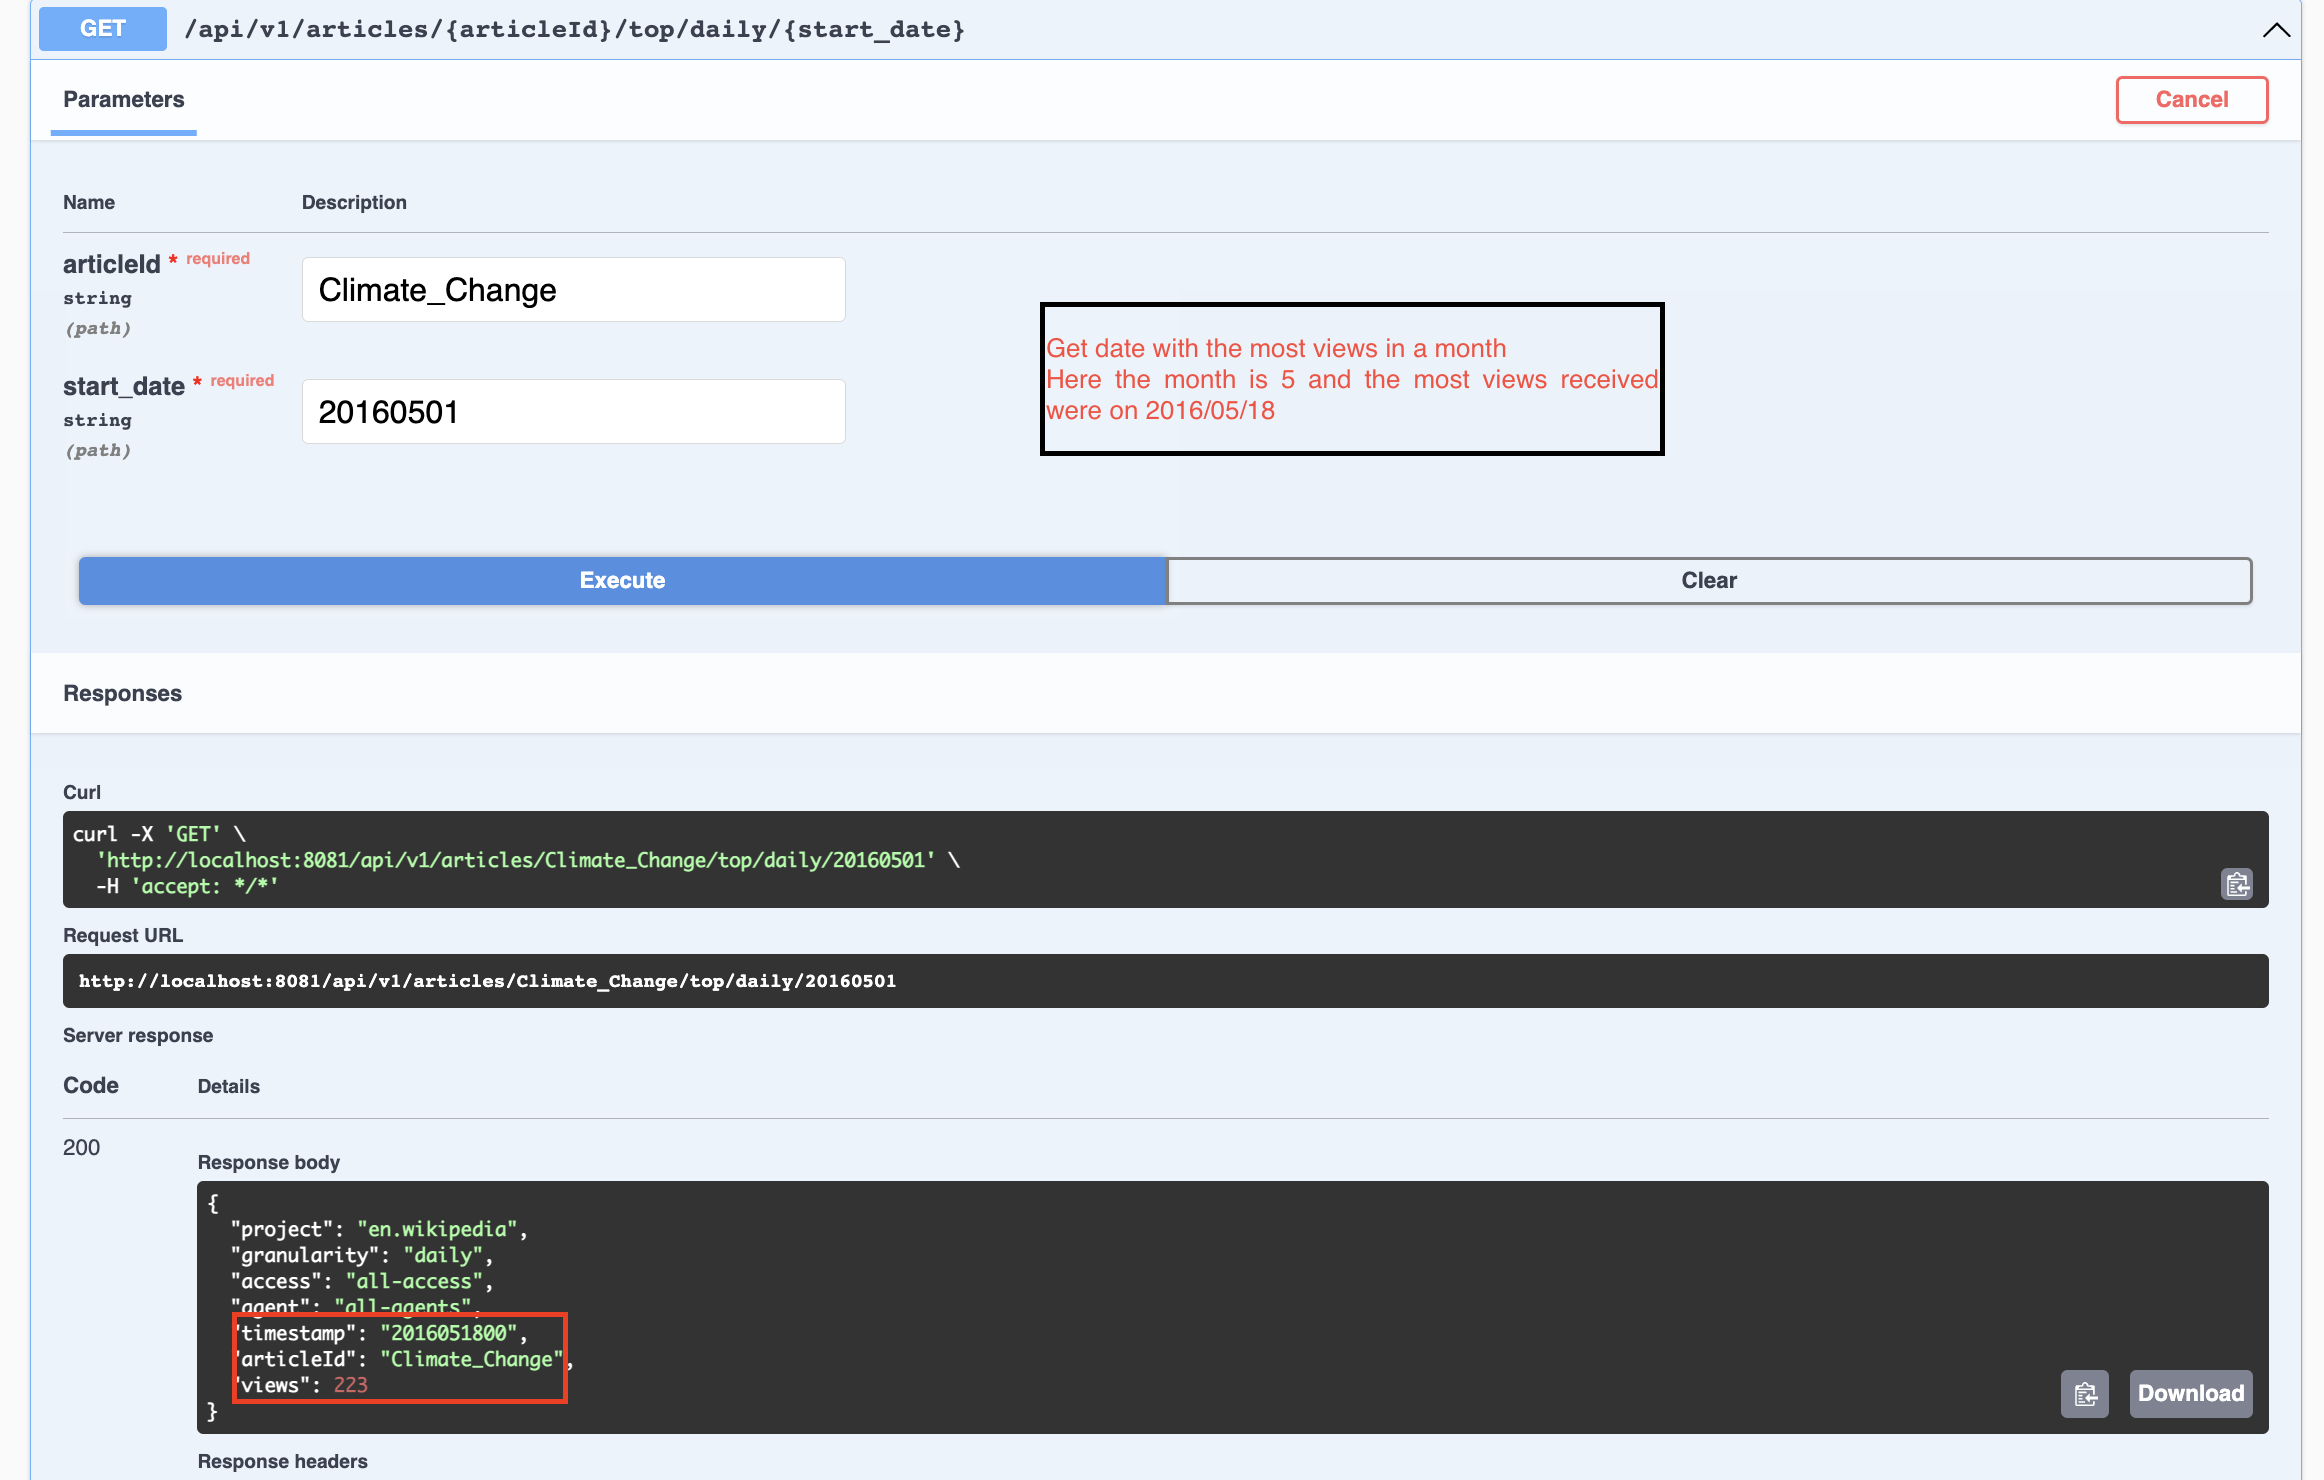
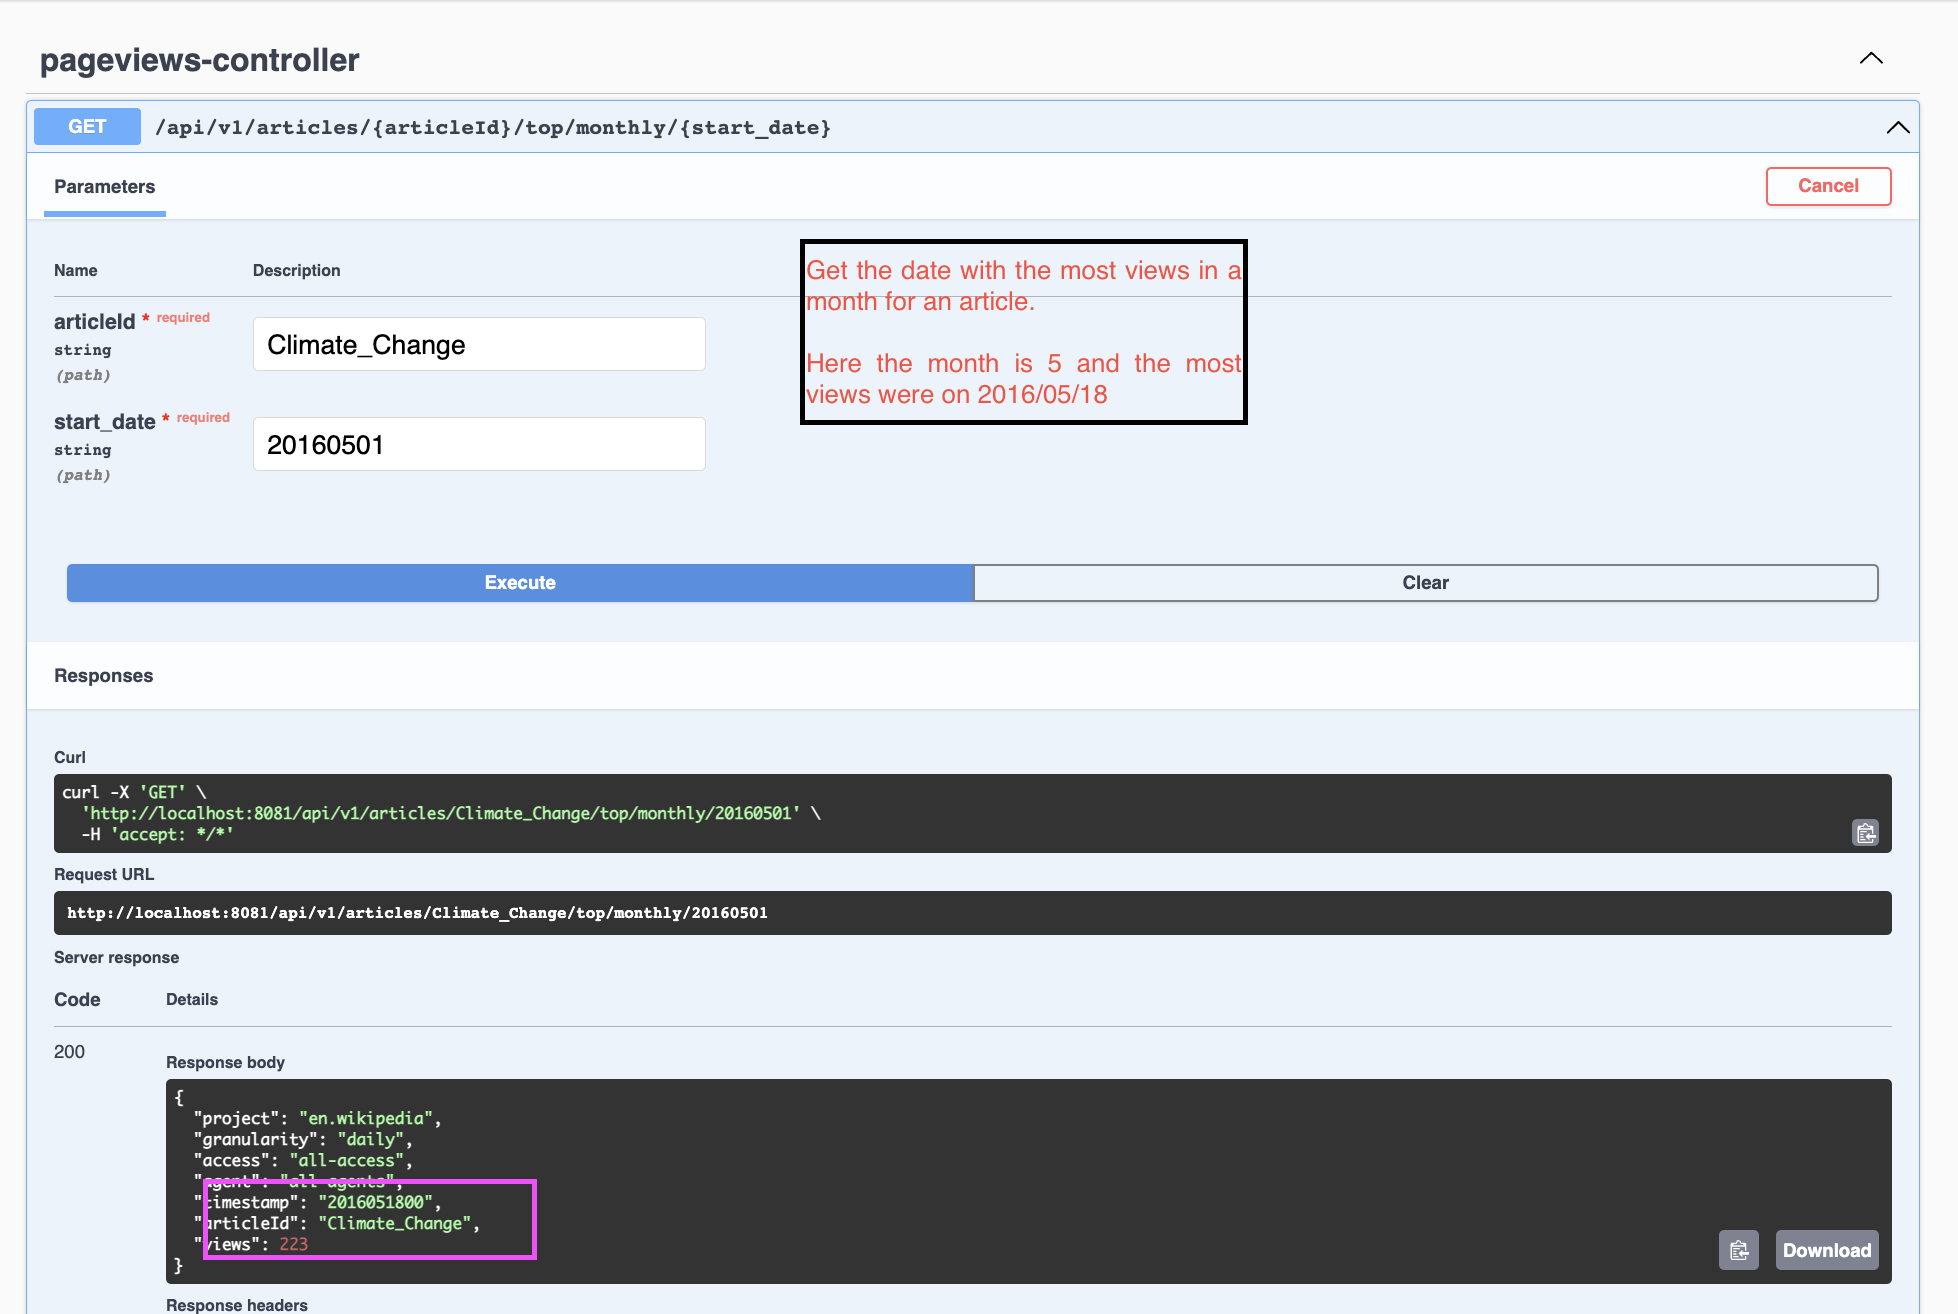
Cosmetic fixes

diff --git a/src/main/java/com/analytics/controllers/PageviewsController.java b/src/main/java/com/analytics/controllers/PageviewsController.java
@@ -31,13 +31,12 @@ public class PageviewsController {
      * 		200 - returns an array of most viewed articles
      * 		400, 404, 429 - possible response errors from the 3rd API
      */
-    @RequestMapping(value =  {"/articles/top/{granularity}/{year}/{month}/{day}"}, method = RequestMethod.GET)
+    @RequestMapping(value={"/articles/top/{granularity}/{year}/{month}/{day}"}, method=RequestMethod.GET)
     public TopArticlesResponse getMostViewedArticles(@PathVariable(name="granularity", required = true) Granularity granularity,
                                                      @PathVariable(name="year", required = true) String year,
                                                      @PathVariable(name="month", required = true) String month,
-                                                     @PathVariable(name ="day", required = true) String day) throws RuntimeException, ExecutionException, InterruptedException, IOException {
+                                                     @PathVariable(name="day", required = true) String day) throws RuntimeException, ExecutionException, InterruptedException, IOException {
         return articlesManager.findMostViewedArticlesByGranularity(granularity, year, month, day);
-
     }
 
     /**
@@ -52,8 +51,8 @@ public class PageviewsController {
      * 		200 - returns an array of page views for an article
      * 		400, 404, 429 - possible response errors from the 3rd API
      */
-    @RequestMapping(value =  "/articles/{articleId}/pageviews/{granularity}/{start_date}", method = RequestMethod.GET)
-    public ArticleResponse getViewCountForArticle(@PathVariable(name = "articleId", required = true) String articleId,
+    @RequestMapping(value="/articles/{articleId}/pageviews/{granularity}/{start_date}", method=RequestMethod.GET)
+    public ArticleResponse getViewCountForArticle(@PathVariable(name="articleId", required = true) String articleId,
                                                   @PathVariable(name="granularity", required = true) Granularity granularity,
                                                   @PathVariable(name="start_date", required = true) String start_date) throws RuntimeException, ExecutionException, InterruptedException, IOException {
 
@@ -61,7 +60,7 @@ public class PageviewsController {
     }
 
     /**
-     * GET /articles/{articleId}/top/daily/{start_date}
+     * GET /articles/{articleId}/top/monthly/{start_date}
      * Returns the date with the most page views for an article in a month
      *
      * @param articleId - Name of the article
@@ -71,9 +70,9 @@ public class PageviewsController {
      * 		200 - returns an array of page views for an article
      * 		400, 404, 429 - possible response errors from the 3rd API
      */
-    @RequestMapping(value = "/articles/{articleId}/top/daily/{start_date}", method = RequestMethod.GET)
+    @RequestMapping(value = "/articles/{articleId}/top/monthly/{start_date}", method = RequestMethod.GET)
     public ArticleResponse.ArticlePageView getDayWithMostViewCountForArticle(
-            @PathVariable(name = "articleId", required = true) String articleId,
+            @PathVariable(name="articleId", required = true) String articleId,
             @PathVariable(name="start_date", required = true) String start_date) throws RuntimeException, IOException {
         return articlesManager.findDayWithMostViewsInMonth(articleId, start_date);
     }

diff --git a/src/main/java/com/analytics/services/ArticlesManager.java b/src/main/java/com/analytics/services/ArticlesManager.java
@@ -13,7 +13,6 @@ import java.util.concurrent.ExecutionException;
 public class ArticlesManager {
        WikiPageViewClientImplementation wikiPageViewClient = WikiPageViewClientImplementation.getInstance();
 
-
     // Find the weekly/monthly most viewed articles
     public TopArticlesResponse findMostViewedArticlesByGranularity(Granularity granularity, String year, String month, String day) throws ExecutionException, InterruptedException, IOException {
         return wikiPageViewClient.findMostViewedArticles(granularity, year, month, day);

diff --git a/src/main/java/com/analytics/exceptions/RestExceptionHandler.java b/src/main/java/com/analytics/exceptions/RestExceptionHandler.java
@@ -13,8 +13,7 @@ import java.io.IOException;
 public class RestExceptionHandler {
     @ExceptionHandler(ResponseStatusException.class)
     public ResponseEntity<String> handleHttpError(ResponseStatusException ex) {
-        String message = ex.getReason();
-        return new ResponseEntity<>(message, ex.getStatus());
+        return new ResponseEntity<>(ex.getReason(), ex.getStatus());
     }
 
     public static void parseAndThrowException(Response<?> response) {
